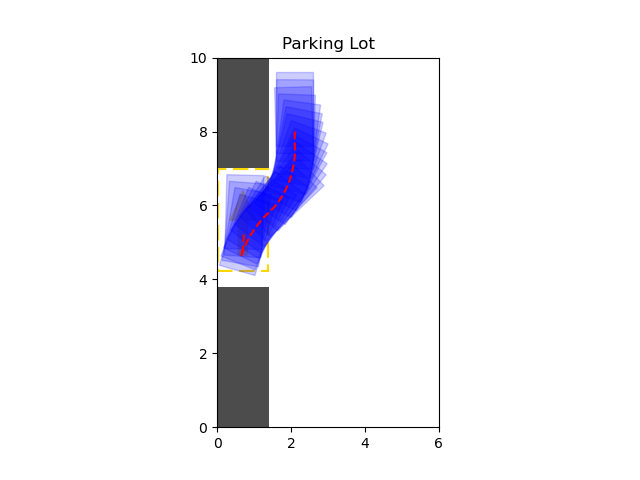
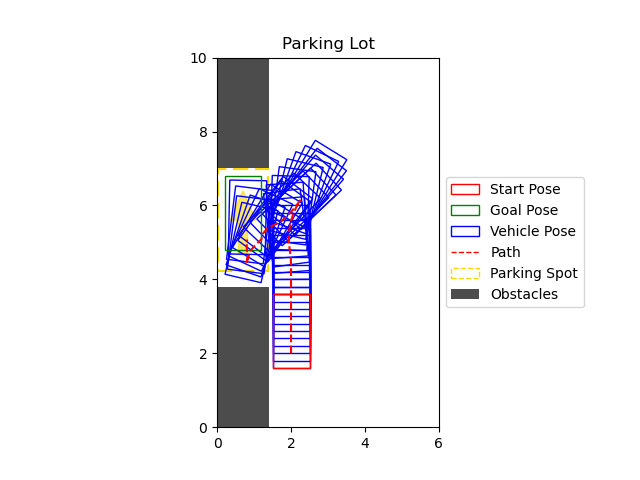
Update plotting functions and README.md
Add legend to plots and some other modifications.

Changed region(s): [[0.3438, 0.125, 0.5625, 0.7812], [0.6875, 0.375, 0.9062, 0.625]]

diff --git a/src/simulations/simulator.py b/src/simulations/simulator.py
@@ -1,5 +1,7 @@
 import numpy as np
 import matplotlib.pyplot as plt
+from matplotlib.patches import Patch
+from matplotlib.lines import Line2D
 import matplotlib.animation as animation
 from models.environment import Environment
 from models.car import Car
@@ -49,13 +51,33 @@ class Simulator:
 
             self._draw_png(path, True)
 
+    def _draw_references(self, ax: plt.Axes, **kwargs):
+        # Highlight the start and goal pose in red and green colors
+        self.car.update(self.config["planner"]["start_pose"])
+        ax.add_patch(self.car.patch(redraw=True, color="red"))
+        self.car.update(self.config["planner"]["goal_pose"])
+        ax.add_patch(self.car.patch(redraw=True, color="green"))
+
+        red_patch = Patch(edgecolor='red', fill=False, label='Start Pose')
+        green_patch = Patch(edgecolor='green', fill=False, label='Goal Pose')
+        blue_patch = Patch(edgecolor='blue', fill=False, label='Vehicle Pose')
+        red_line = Line2D([0], [0], color='red', linewidth=1, linestyle='--', label='Path')
+        yellow_patch = Patch(edgecolor='gold', linestyle='--', fill=False, label='Parking Spot')
+        black_patch = Patch(facecolor='black', alpha=0.7, edgecolor=None, label='Obstacles')
+        handles = [red_patch, green_patch, blue_patch, red_line, yellow_patch, black_patch]
+
+        plt.legend(handles=handles, **kwargs)
+
     def _draw_png(self, path: list[Pose_t], show=True):
         fig, ax = self.env.draw()
 
         plt.plot([p[0] for p in path], [p[1] for p in path], 'r--')
+
         for pose in path:
             self.car.update(pose)
             ax.add_patch(self.car.patch(redraw=True))
+
+        self._draw_references(ax, loc='center left', bbox_to_anchor=(1, 0.5))
 
         if self.config["result"]["save_png"]:
             plt.savefig(self.config["result"]["png_path"])
@@ -72,6 +94,8 @@ class Simulator:
 
         x = [p[0] for p in path]
         y = [p[1] for p in path]
+
+        self._draw_references(ax, loc='center left', bbox_to_anchor=(1, 0.5))
 
         def animate(i):
             line = ax.plot([], [], 'r--')

diff --git a/src/models/car.py b/src/models/car.py
@@ -27,17 +27,24 @@ class Car:
     def update(self, new_pose: Pose_t) -> None:
         self.pose = new_pose
 
-    def patch(self, redraw: bool = True) -> plt.Rectangle:
+    def patch(self, redraw: bool = True, color: str = 'blue') -> plt.Rectangle:
         x, y, phi = self.pose
         left_bottom = (x - (self.rear_to_base_axle * np.cos(phi) - self.width / 2 * np.sin(phi)),
                        y - (self.rear_to_base_axle * np.sin(phi) + self.width / 2 * np.cos(phi)))
 
-        if redraw or self.rect is None:
-            self.rect = patches.Rectangle(left_bottom, self.length, self.width,
-                                          color='blue', alpha=0.2,
-                                          angle=phi * 180 / np.pi)
+        if redraw:
+            rect = patches.Rectangle(left_bottom, self.length, self.width,
+                                     edgecolor=color, fill=None, linestyle="-",
+                                     angle=phi * 180 / np.pi)
+            return rect
         else:
-            self.rect.set_xy(left_bottom)
-            self.rect.set_angle(phi * 180 / np.pi)
+            if self.rect is None:
+                self.rect = patches.Rectangle(left_bottom, self.length, self.width,
+                                              edgecolor=color, fill=None, linestyle="-",
+                                              angle=phi * 180 / np.pi)
+            else:
+                self.rect.set_xy(left_bottom)
+                self.rect.set_angle(phi * 180 / np.pi)
+                self.rect.set_color(color)
 
-        return self.rect
+            return self.rect

diff --git a/src/main.py b/src/main.py
@@ -8,7 +8,7 @@ def main():
     logging.basicConfig(level=logging.INFO)
     logger = logging.getLogger("[" + __name__ + "]")
 
-    toml_file = str(Path(__file__).resolve().parent / 'utils/test_parking_lot.toml')
+    toml_file = str(Path(__file__).resolve().parent / 'utils/test_parking_lot_1.toml')
 
     with open(toml_file, 'r') as f:
         configuration = toml.loads(f.read())

diff --git a/README.md b/README.md
@@ -88,11 +88,6 @@ In the [plots](#reeds-shepp-curve), the blue paths indicate the car is moving fo
 <img src="resources/parking-lot-4.gif" width=400>
 </p>
 
-<p float="left">
-<img src="resources/parking-lot-5.png" width=400>
-<img src="resources/parking-lot-5.gif" width=400>
-</p>
-
 ### Reeds-Shepp curve
 
 <p float="left">
